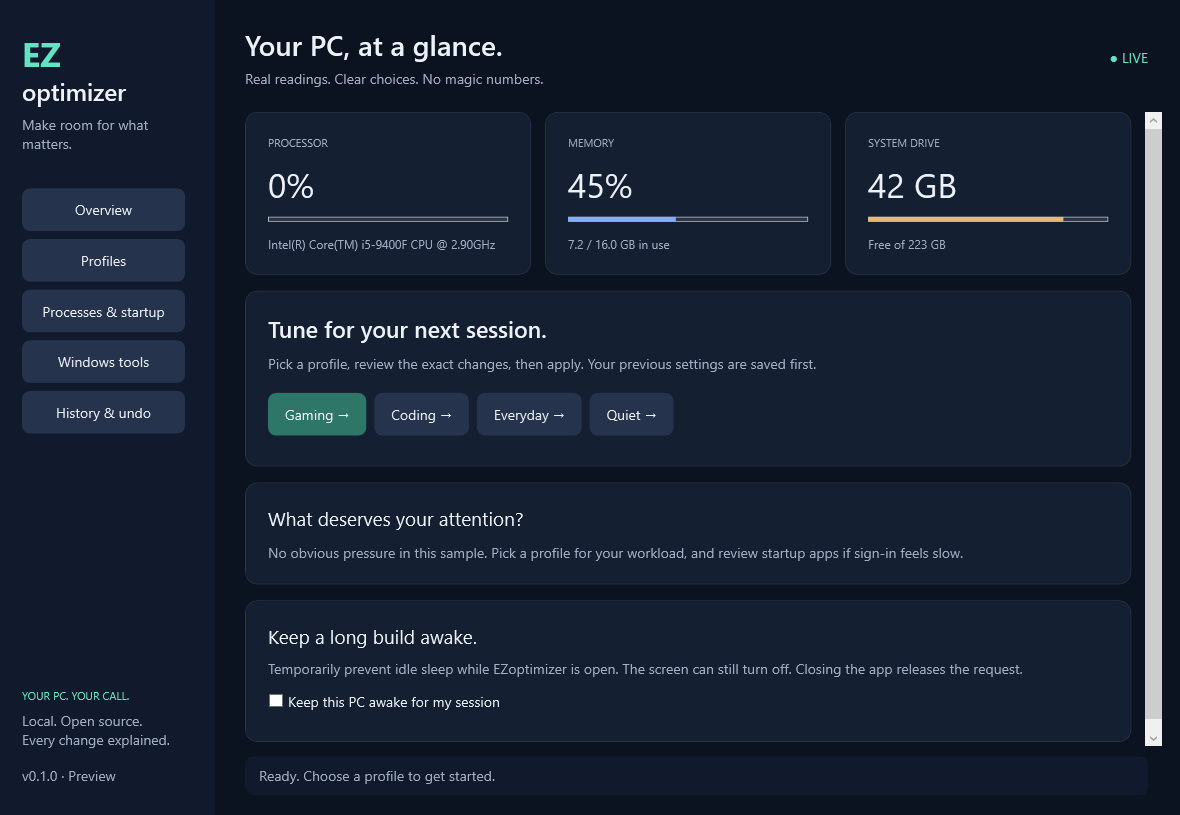
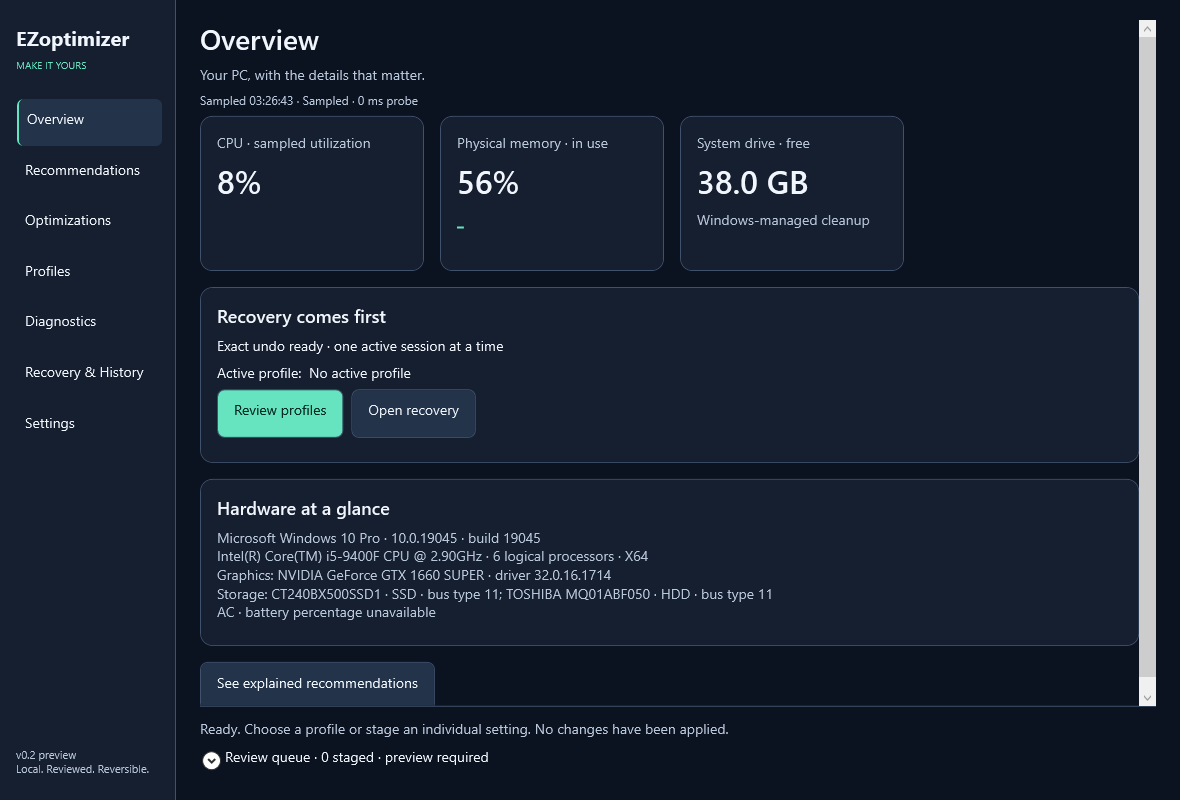
Document recovery contracts and measured validation

diff --git a/docs/VALIDATION.md b/docs/VALIDATION.md
@@ -1,0 +1,53 @@
+# Validation and compatibility
+
+## Local evidence · 2026-10-03
+
+Baseline: 2310502c9f3b0d6a0c369690cabe8f49afeef8b7. Current preview: v0.2.0, .NET 10.0.12, SDK 10.0.401, Windows x64 portable.
+
+| Check | Result | What it establishes |
+|---|---|---|
+| Release build | Pass, zero warnings/errors | Source and WPF resources compile |
+| Default regression suite | 39 checks pass | Simulated recovery/migration/failures plus strict profiles, update/manual-install gates, endpoint validation and export/log redaction |
+| Self-contained single-file publish | Pass | Packaged executable is produced with its own runtime |
+| Packaged --smoke-test | Exit 0 | Native memory/power/preferences/inventories, UI construction and staging/preview; no Windows tuning writes |
+| Packaged --ui-check | Exit 0, 84 layouts | Exactly the selected page is instantiated and measurable across 7 pages × 4 themes × 3 scales at 1366×768 equivalent; status has its automation name |
+| --render-preview | Pass | Actual WPF content rendered from real local readings; overview, light 150%, high contrast 200% |
+| Native desktop capture | Not completed | FrameArrived/window-capture timeouts persisted after one refresh/retry; built-in renders are labeled as such |
+| Hosted GitHub Actions | Blocked | Account/billing restriction; no hosted CI success is claimed |
+
+The 39 default checks preserve the original eight scenarios and cover saved originals, service restart, stale previews, write/read-back failures, compensation, interrupted undo, external conflicts, one-active ownership, schema migration, malformed/path-mismatched records, disk/permission/save failure, policy changes, cancellation, unsupported capabilities, strict profiles, unknown/disallowed operations, persistent desired values, update host/channel/offline/rate-limit/interruption handling, no unsigned install path, missing measurements, restore-result mapping, network target validation, redacted reports/logs, and consistency/retry after a rollback save failure.
+
+No default check calls native tuning writes, creates a restore point, terminates a process, removes a package or sends a network probe. Restore creation tests verify result mapping, not real provider behavior. The unsigned-install test verifies there is no installation path; it is not a test of a configured signature verifier. Future registry absence/type/view operations and dependency graphs are deferred, not silently claimed tested.
+
+## Measured application overhead
+
+Measured the packaged preview with its own `--measure-performance` mode: one visible-idle and one minimized window, each sampled for 20 seconds after a 10-second settle period. [Raw measurements](performance.json).
+
+| Phase | CPU, share of whole 6-core machine | Average working set | Peak working set |
+|---|---:|---:|---:|
+| Visible idle | 0.22% | 112.9 MiB | 124.7 MiB |
+| Minimized | 0.21% | 113.3 MiB | 114.3 MiB |
+
+Startup-handler entry to inventory-ready was 662 ms. This excludes process launch/extraction before managed startup and is **not** a cold-start measurement. WPF rendering tier was 2. Background apps, disk cache, graphics state and Windows services were uncontrolled. These are local app-overhead measurements, not evidence of gaming or coding gains.
+
+Earlier visible runs showed 4–6% machine CPU while a desktop inspection tool was querying accessibility. A trace showed substantial automation-provider traversal. Pages now instantiate on selection, and capture attempts were stopped before the final run. That changes both UI cost and measurement conditions, so these numbers must not be presented as a controlled percentage speedup.
+
+## Compatibility matrix
+
+| Environment | Evidence | Status |
+|---|---|---|
+| Windows 10 Pro 22H2 x64, build 19045; i5-9400F; GTX 1660 SUPER; SATA SSD/HDD; AC | Local build/publish, read-only native checks, WPF rendering and measured overhead | Preview-tested for those reads/UI paths; ESU enrollment unknown |
+| Windows 11 x64 | Supported API/runtime target and OS-build eligibility logic | Actual VM/hardware validation pending |
+| Standard-user native mutation | Default startup does not request UAC; policy and verification gates implemented | Exact-write/undo integration in disposable VM pending |
+| Admin restore-point helper | Fixed documented WMI method, separate review/UAC, verified sequence result logic | Real created/skipped/frequency/denied behavior pending disposable VM tests |
+| OEM laptop / Modern Standby / hybrid GPU / battery / managed policy | Existing plans only, unknown states explicit, policy checks and conservative presets | Hardware/policy matrix testing pending |
+| Game-session exit and app exit | Explicit PID+start identity and engine-backed restoration implemented | Real native game/session integration pending |
+| ARM64 | No ARM64 release | Deferred until verified native compatibility |
+
+## Accessibility limits and next release gates
+
+Shared focus borders, native peers/names, keyboard-capable controls, a live-region status event, scalable WPF layout, Windows high-contrast brushes and scrolling are implemented. Layout checks emulate logical size and render DPI; they do not change the actual OS display setting. The minimum window is 640×360 DIPs. At 200% on 1366×768, navigation and content scroll. The review area has a bounded height and its own scroll path so it cannot consume the entire window.
+
+Manual Narrator traversal, keyboard Tab/arrow/Enter sequences, real OS text/DPI/high-contrast transitions, long translated strings, restore UAC cancellation, unplugged/restricted WMI states and startup/app inventory completeness still need hands-on verification. Text size follows DPI; independent Windows text-size behavior is not fully verified. Do not call this preview fully accessibility-certified or universally compatible.
+
+Before expanding mutations or calling a stable release, run disposable Windows 11 and supported-serviced Windows 10 VMs with snapshots. Exercise each real preference write/undo, denied policies, interrupted processes, helper frequency/creation outcomes, game exit, app exit, power changes and upgrade recovery. Keep the existing v0.1 fixtures and active journals through every test.

diff --git a/docs/FEATURES.md b/docs/FEATURES.md
@@ -1,0 +1,26 @@
+# Feature matrix
+
+| Area | Implemented control | Read-only diagnostics / guidance | Deferred and prerequisite |
+|---|---|---|---|
+| System | Two animation preferences, installed power plan, session keep-awake | CPU/RAM/free space, OS/CPU/GPU driver/storage/battery, startup inventory | Startup toggles: exact mechanism/absence/type/view capture and VM testing |
+| Gaming | Reviewed opt-in session with process identity and exact undo | Game Mode, captures, graphics and display Settings shortcuts | FPS/frame-time integration and real game exit tests in disposable environments |
+| Profiles | Five presets, desired-only custom import/export, persistent queue | Missing-plan explanation and machine-specific preview | Future schema migration when another profile schema exists; v1 is the first custom-profile format |
+| Privacy | No direct Windows privacy mutation | Advertising/personalization and camera-permission shortcuts | Additional controls require stable documented policy-aware interfaces |
+| Debloat | No app/package removal | User/machine uninstall-registry inventory; Windows uninstall workflow | Complete packaged/provisioned/framework classification, removal and explicit data-loss contract |
+| Network | No DNS changes or resets | Adapter/DNS inventory, chosen-endpoint bounded ICMP samples | Per-adapter DHCP/static/VPN/policy-safe changes and rollback integration tests |
+| Maintenance | No permanent deletion | Windows Storage Sense and Update shortcuts | Allowlisted app-owned cache cleanup with reparse safety and honest recovery |
+| Recovery | Durable schema-2 journals, v0.1 migration, verification, compensation, cancellation, conflict retry | Recovery-only startup; provider inspection; reviewed System Restore helper | Real restore creation/frequency/denial VM testing; quarantine-adjudication tooling |
+| Updates | Manual fixed-repository stable/preview checks | Official release page, offline/rate-limit/interruption states | Automatic executable replacement requires publisher signing and trusted signed metadata |
+| Measurements | Timestamped actual samples and local two-window comparison | Benchmark repeat guidance; CPU/RAM limitations | Manual benchmark import and workload-completion instrumentation |
+| Accessibility | Focus borders, native control peers/names, scrolling, high contrast resources and live status announcements | Four-theme/three-scale layout smoke and actual WPF renders | Full Narrator, actual OS scaling/high contrast, keyboard traversal and long-localized text audit |
+
+All shortcuts are labeled as such and do not masquerade as implemented optimizations. No speculative tweak count, performance score or guaranteed gain is shown. Unknown battery/media/capability values remain unknown. OEM/Modern Standby availability is handled through existing installed plans rather than fabricating missing plans. Managed restrictions block execution rather than being bypassed.
+
+## Milestones
+
+1. Audited the public baseline commit and preserved its capture; kept WPF and chose supported .NET 10 LTS.
+2. Split native settings from a migrated journal engine; regression coverage expanded from 8 to 29 checks.
+3. Connected a persistent review queue to MVVM, exact preview, apply, progress, cancellation and retry across seven native pages.
+4. Added conservative/custom profiles, cached hardware recommendations and supplementary restore-point integration.
+5. Connected system/gaming/privacy/debloat/network/maintenance controls, inventories and clearly labeled shortcuts.
+6. Added logs, reviewed exports, manual update safety, 39 default checks, portable packaging, layout renders and measured overhead. Remaining acceptance gaps are listed in VALIDATION.md rather than treated as passed.

diff --git a/docs/ARCHITECTURE.md b/docs/ARCHITECTURE.md
@@ -1,0 +1,26 @@
+# Architecture
+
+WPF and .NET 10 LTS remain the native stack. `MainWindow` contains view lifecycle, theme/UI interactions and validation hooks. `MainViewModel` owns navigation, command state, staged targets and async orchestration. It delegates Windows writes and recovery to services rather than holding native mutation code.
+
+| Module | Responsibility |
+|---|---|
+| Design.xaml | Dynamic colors, typography, spacing, focus and native control templates |
+| MainWindow.xaml | Scrollable views, cards, persistent review queue and accessible names |
+| Domain.cs | Stable catalog IDs/versions, typed-value validation, planning, eligibility and recommendation rules |
+| WindowsSettings.cs | Allowlisted SPI preferences and installed power plans; fixed system executable, no shell |
+| Tuning.cs | Intent-before-write journals, v1 migration, atomic flush/rename, state transitions, conflict-aware compensation and retry |
+| ProfileStore.cs | Strict desired-value profiles and persistent queue; no machine originals or executable content |
+| SystemProbe.cs | Non-overlapping volatile samples, cached WMI inventory, partial process/startup/app inventories, policy checks and bounded endpoint diagnostics |
+| LocalServices.cs | Structured logs, reviewed/redacted reports and dedicated System Restore helper |
+| Updates.cs | Bounded fixed-host HTTPS metadata checks, channels and manual-only release flow |
+| tests/ForgePC.Tests | Simulated recovery/contracts plus pure safety validation; no native mutation |
+
+Boolean preferences use exact On/Off and power plans use GUIDs. Catalog metadata declares evidence, risk, dependencies, restart and recovery requirements. Unsupported system-level requirements are rejected by planning; no such mutation is exposed. The small catalog has no dependency graph beyond uniqueness and eligibility today. New dependency/conflict semantics need dedicated tests before expanding it.
+
+Apply snapshots all originals before any write; each operation saves applying state, rechecks current value/capability, writes, reads back and saves the result. A failed batch stops and compensates in reverse order. The journal remains active until every owned setting is verified restored. Prepared/unattempted operations do not get written during compensation. Cancellation occurs at operation boundaries, not halfway through a native write.
+
+No privileged IPC channel is exposed. The elevated helper accepts exactly `--create-restore-point`, not frontend configuration. All settings mutations remain ordinary-user operations. The Windows provider and installed plan/policy state remain authoritative.
+
+Polling is serialized at 2 seconds while active and 10 seconds while inactive/minimized. Native power helper calls have an 8-second timeout. WMI enumeration has bounded timeouts/row counts; caller deadlines bound wait time, although Windows WMI work may finish in the background. Network probes have a 3-second overall wait per ICMP attempt and five attempts. Update metadata has a 12-second deadline and 1 MiB limit including streamed content. No temperature is inferred and no kernel driver is installed.
+
+Logs rotate independently of history. Reports export only an explicit allowlist, excluding free-text operation results as well as process, startup, network and user-identifying fields. No data is sent automatically.

diff --git a/docs/RECOVERY.md b/docs/RECOVERY.md
@@ -1,0 +1,17 @@
+# Recovery
+
+1. Keep `%LOCALAPPDATA%\EZoptimizer\history` when replacing the executable. Active journals are never pruned.
+2. Open **Recovery & History**, or launch `EZoptimizer.exe --recovery` if hardware probing prevents normal startup.
+3. Expand operation results. **Undo / retry exact restoration** restores only saved originals that still match the applied target, or confirms values already equal to the original.
+4. If another app changed a value, it is a conflict. EZoptimizer preserves it. Review that external change in Windows. A retry succeeds only when it is safe; there is no force-original override in this preview.
+5. A failed/cancelled batch attempts compensation. Any failed restoration remains durably active for retry. Disk access/policy may still block recovery; retain the records and report the correlation ID.
+
+v0.1 unversioned records migrate in memory to schema 2 without replacing original data on read. A later verified save writes the new schema. Unknown future versions and malformed files are isolated in `history\quarantine` with random names; valid records load independently. New applies are blocked while quarantine exists. Do not clear quarantine until its originals and ownership have been reviewed; support tooling for safe adjudication is deferred.
+
+App and menu preference values are explicit On/Off; power originals are GUIDs. These operations use documented Windows APIs and do not edit optional registry values. General absent/present registry recovery is intentionally not implemented because arbitrary registry operations are not supported.
+
+Only one session may remain active. A per-user global mutex prevents normal simultaneous app instances across Windows sessions; the engine serializes batches within the process. Custom engine hosts must provide their own single-instance boundary.
+
+Game sessions track an explicit PID plus process-start identity to avoid PID reuse. Settings are restored on observed exit or normal app exit. If shutdown/crash prevents restoration, the saved game-session journal remains available on next startup; monitoring does not silently resume.
+
+System Restore is optional supplementary protection. Inspection reports provider accessibility and retained points, not full drive protection coverage. Creation respects Windows frequency behavior, does not enable protection or change quotas, and verifies a new sequence/description before claiming success. A skipped or unverified result is never shown as created. Use Windows System Protection / recovery tools for broad restoration; the app opens them but never initiates it automatically.

diff --git a/docs/AUDIT.md b/docs/AUDIT.md
@@ -1,0 +1,19 @@
+# Baseline audit
+
+Inspected 2026-10-03: 2310502c9f3b0d6a0c369690cabe8f49afeef8b7, origin/main and v0.1.0. No repository AGENTS.md was found. Read README, CONTRIBUTING, SECURITY, release workflow, all source and the eight regression checks; preserved the original overview capture as docs/v0.1-overview.png.
+
+The brief's baseline description is accurate. Strengths are intent-before-write persistence, read-back verification, saved originals, external conflict preservation, standard-user startup and the narrow control set. Gaps: no journal schema or malformed-file isolation; no per-write revalidation; no compensating rollback or cancellation; first CPU sample incorrectly appears as 0%; expensive UI-thread reads; no cached inventory; monolithic window; no stored queue/custom profiles; no restore integration or update checking.
+
+Retain the three proven controls. Broader categories use read-only diagnostics or explicit Windows links where a stable reversible mutation contract is unavailable. DNS rewriting, package removal and registry-based privacy edits are deliberately excluded.
+
+Framework decision: .NET 8 reaches end of support 2026-11-10. Move to .NET 10 LTS (support through 2028-11-14), preserving WPF and portable x64. System.Management 10.0.12 is the only added package, for documented WMI inventory/System Restore APIs. SDK 10.0.401 was installed into the workspace for this build. Production machines must use a Windows release eligible for security servicing; the Windows 10 reference host's ESU enrollment is unknown.
+
+References checked:
+- https://dotnet.microsoft.com/en-us/platform/support/policy/dotnet-core
+- https://support.exmtweaks.com/en/using-exm
+- https://support.exmtweaks.com/en/exm-vs-competitors
+- https://storage-asset.msi.com/files/pdf/X_BOOST_User_Guide_EN.pdf
+- https://learn.microsoft.com/en-us/windows/win32/sr/using-system-restore
+- https://learn.microsoft.com/en-us/windows/win32/sr/createrestorepoint-systemrestore
+
+EXM's categories and review/recovery workflows inform product organization. Its counts and impact statements remain vendor claims, not evidence for this app. MSI X-BOOST is a separately identified MSI product; the intended third-party “XBoost” identity remains unverified. No proprietary code, artwork or tweak packs are used.
